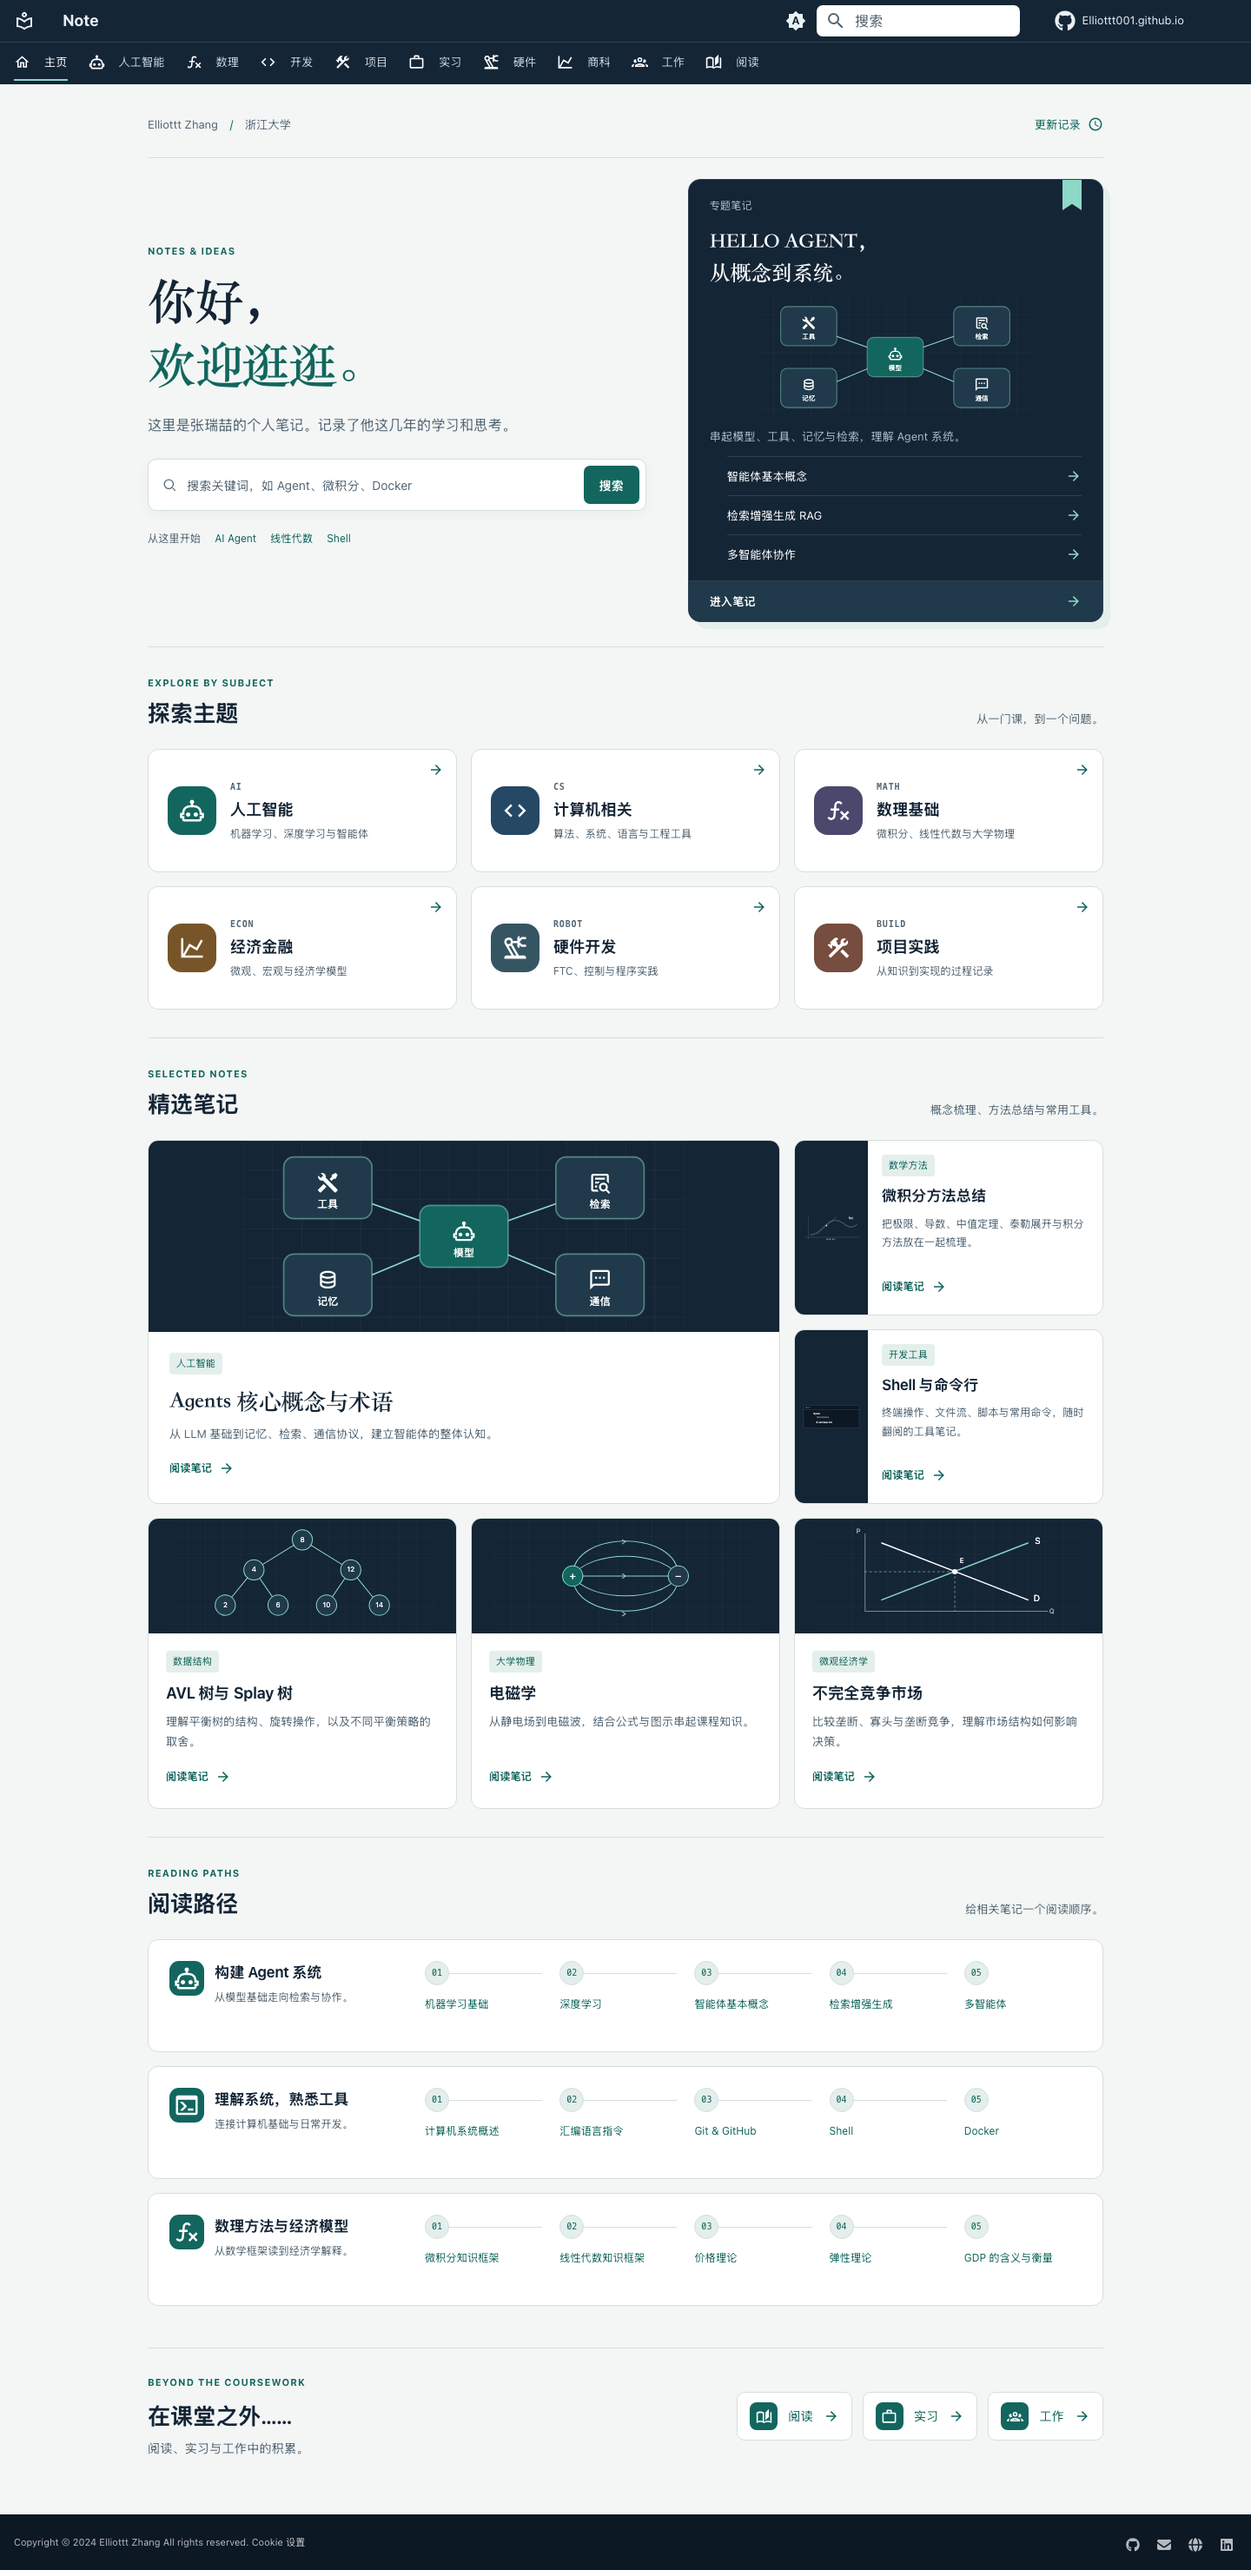
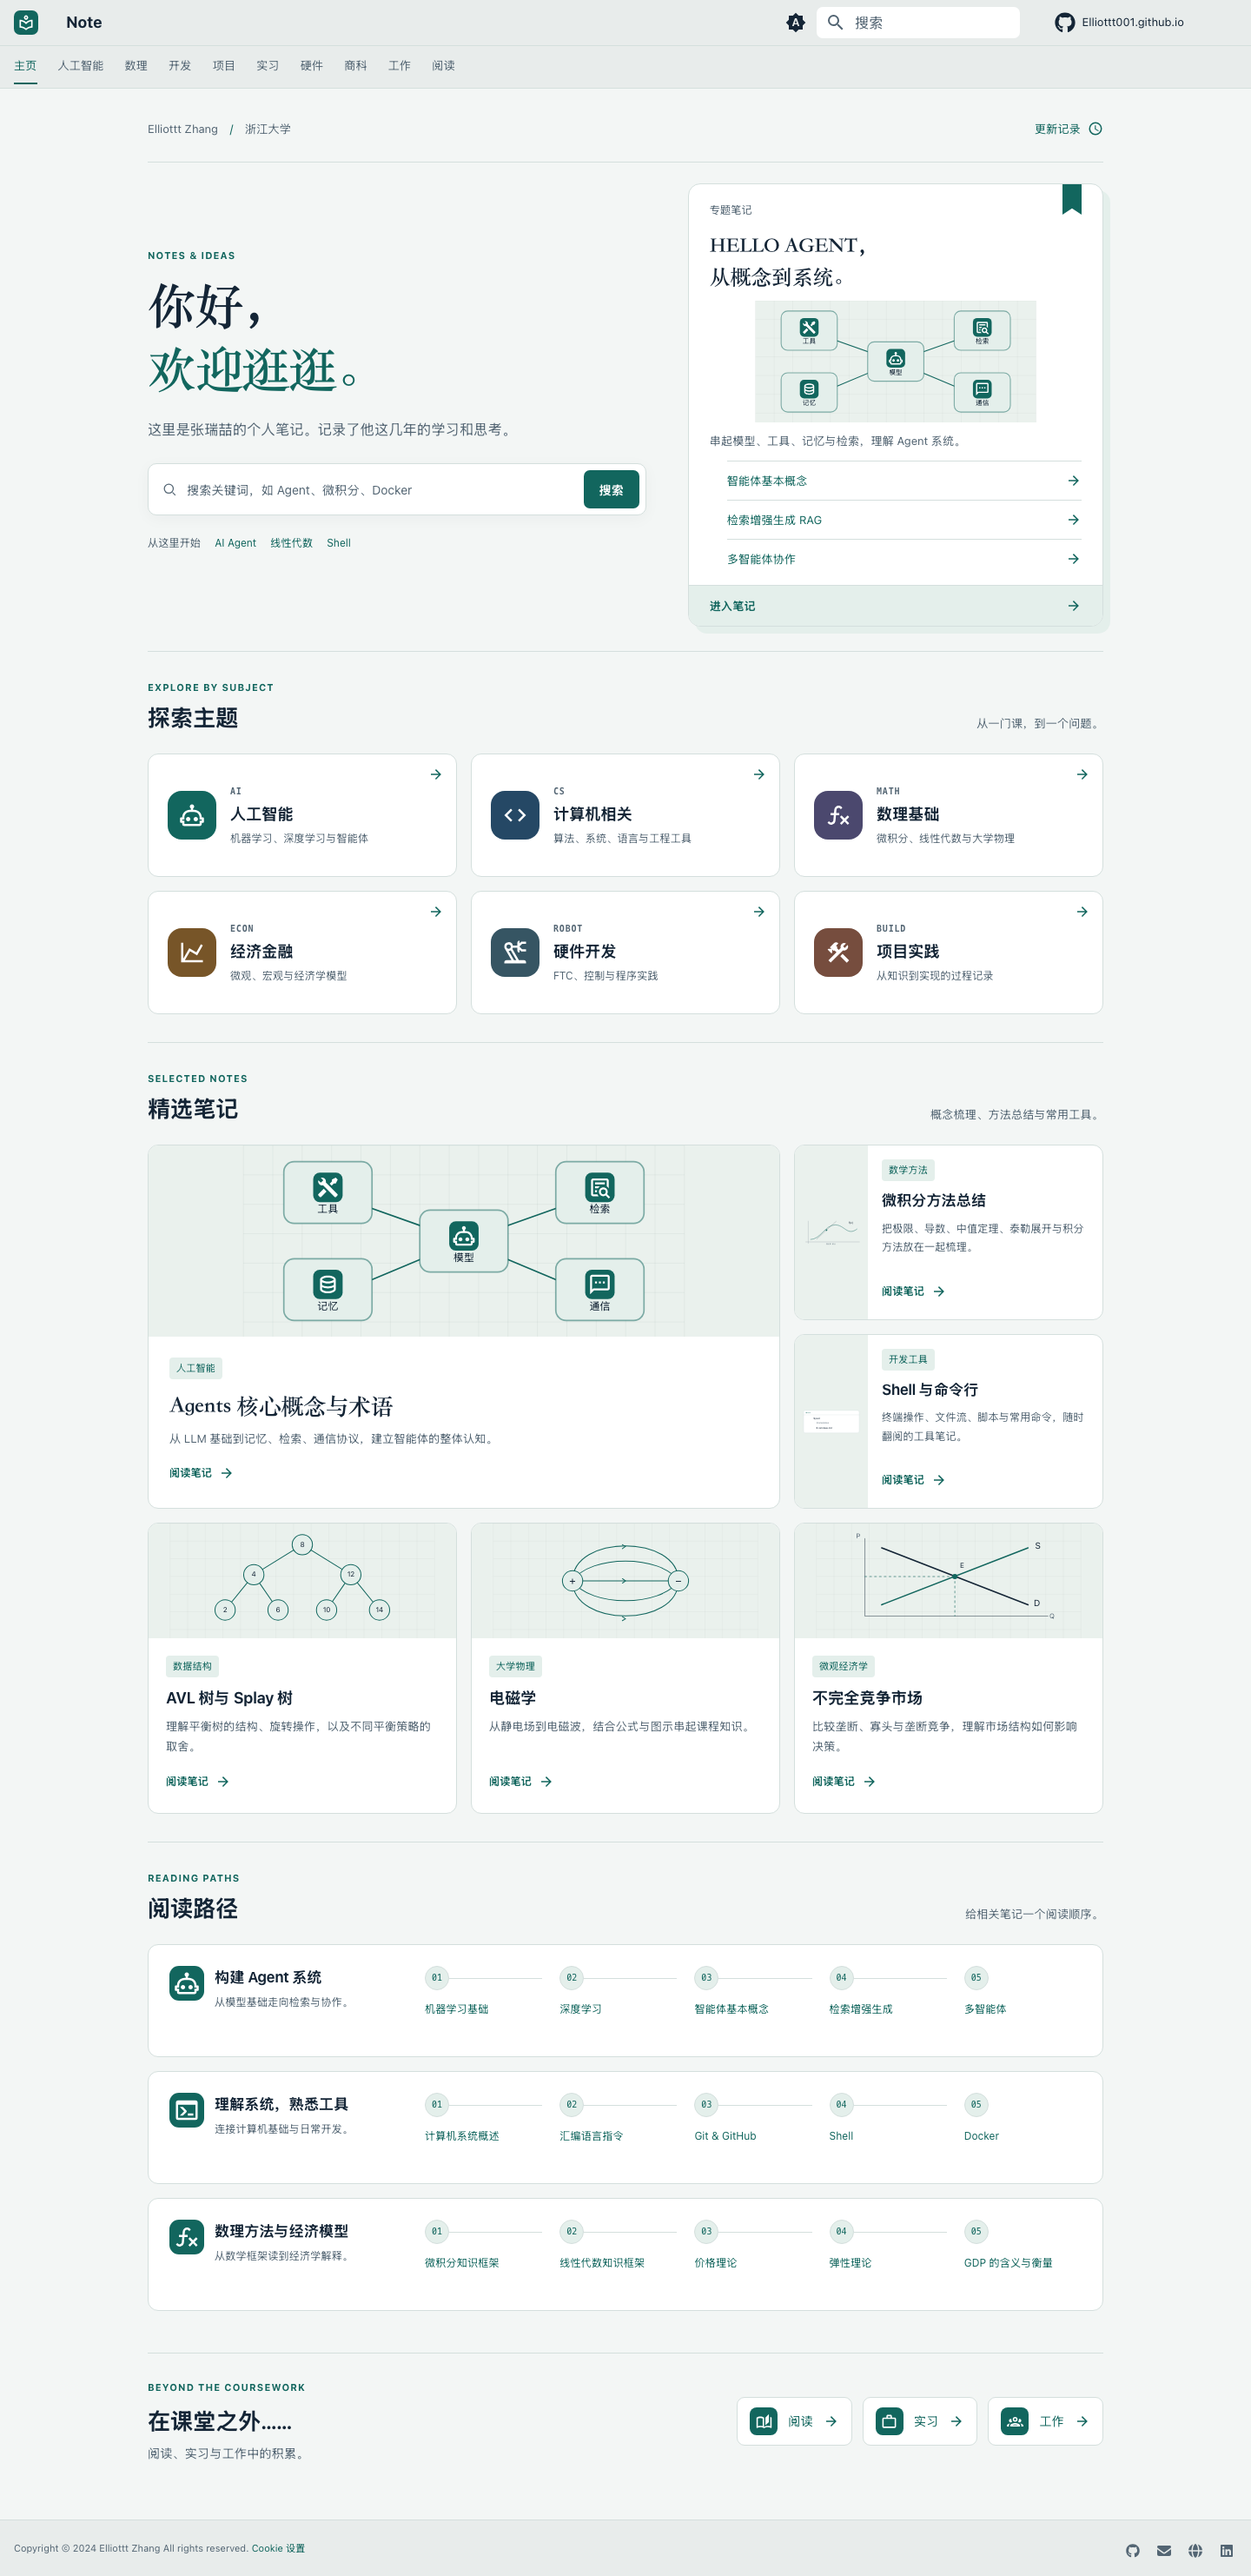
fix: adapt illustrations to themes and simplify navigation

diff --git a/assets/mkdocs/css/home.css b/assets/mkdocs/css/home.css
@@ -29,18 +29,18 @@ body:has(.note-home) .md-content__inner::before { display: none; }
 .nh-arrow { display: inline-flex; align-items: center; flex: 0 0 18px; width: 18px; height: 18px; }
 .nh-arrow svg { width: 100%; height: 100%; fill: currentColor; }
 
-.nh-notebook { position: relative; overflow: hidden; padding: 20px 24px 0; border: 1px solid #2b4150; border-radius: 14px; background: #142536; color: #fff; box-shadow: 8px 8px 0 var(--nh-tint); }
-.nh-notebook__top { display: flex; align-items: center; justify-content: space-between; margin-bottom: 14px; color: #a7b9c5; font-size: 12px; }
-.nh-bookmark { position: absolute; top: -1px; right: 24px; width: 22px; height: 36px; background: #8ed8c7; clip-path: polygon(0 0, 100% 0, 100% 100%, 50% 80%, 0 100%); }
-.md-typeset .nh-notebook h2 { margin: 0; color: #fff; font-family: var(--ns-display); font-size: 24px; font-weight: 700; line-height: 1.45; }
-.md-typeset .nh-notebook__map { display: block; width: 100%; height: 140px; object-fit: contain; margin: 10px 0; border-radius: 0; }
-.nh-notebook > p { margin: 0 0 12px; color: #a7b9c5; font-size: 13px; }
+.nh-notebook { position: relative; overflow: hidden; padding: 20px 24px 0; border: 1px solid var(--nh-line); border-radius: 14px; background: var(--nh-panel); color: var(--nh-ink); box-shadow: 8px 8px 0 var(--nh-tint); }
+.nh-notebook__top { display: flex; align-items: center; justify-content: space-between; margin-bottom: 14px; color: var(--nh-muted); font-size: 12px; }
+.nh-bookmark { position: absolute; top: -1px; right: 24px; width: 22px; height: 36px; background: var(--nh-accent); clip-path: polygon(0 0, 100% 0, 100% 100%, 50% 80%, 0 100%); }
+.md-typeset .nh-notebook h2 { margin: 0; color: var(--nh-ink); font-family: var(--ns-display); font-size: 24px; font-weight: 700; line-height: 1.45; }
+.md-typeset .nh-notebook__map { display: block; width: 100%; height: 140px; margin: 10px 0; border-radius: 0; }
+.nh-notebook > p { margin: 0 0 12px; color: var(--nh-muted); font-size: 13px; }
 .md-typeset .nh-notebook ul { margin: 0; padding: 0; list-style: none; }
-.md-typeset .nh-notebook li { margin: 0; border-top: 1px solid #2b4150; }
+.md-typeset .nh-notebook li { margin: 0; border-top: 1px solid var(--nh-line); }
 .nh-notebook li a { display: flex; align-items: center; justify-content: space-between; gap: 12px; min-height: 44px; padding: 8px 0; font-size: 13px; }
-.nh-notebook__footer { display: flex; align-items: center; justify-content: space-between; gap: 12px; margin: 8px -24px 0; padding: 12px 24px; border-top: 1px solid #2b4150; background: #203a4b; font-size: 13px; font-weight: 600; }
-.md-typeset .note-home .nh-notebook a { color: #fff; }
-.nh-notebook .nh-arrow { color: #8ed8c7; }
+.nh-notebook__footer { display: flex; align-items: center; justify-content: space-between; gap: 12px; margin: 8px -24px 0; padding: 12px 24px; border-top: 1px solid var(--nh-line); background: var(--nh-tint); font-size: 13px; font-weight: 600; }
+.md-typeset .note-home .nh-notebook a { color: var(--nh-accent); }
+.nh-notebook .nh-arrow { color: var(--nh-accent); }
 
 .nh-section { padding: 32px 0; border-top: 1px solid var(--nh-line); }
 .nh-section__head { display: flex; align-items: end; justify-content: space-between; gap: 20px; margin-bottom: 24px; }
@@ -62,19 +62,19 @@ body:has(.note-home) .md-content__inner::before { display: none; }
 
 .nh-notes { display: grid; grid-template-columns: repeat(6, minmax(0, 1fr)); gap: 16px; }
 .nh-note { grid-column: span 2; display: flex; flex-direction: column; min-width: 0; overflow: hidden; border: 1px solid var(--nh-line); border-radius: 12px; background: var(--nh-panel); transition: border-color 160ms ease, transform 160ms ease; }
-.nh-note__art { display: block; overflow: hidden; background: #142536; }
-.md-typeset .nh-note__art img { display: block; width: 100%; height: 132px; object-fit: contain; border-radius: 0; }
+.nh-note__art { display: block; overflow: hidden; background: var(--nh-book); }
+.md-typeset .nh-note__art .nh-illustration { display: block; width: 100%; height: 132px; border-radius: 0; }
 .nh-note__body { display: flex; flex: 1; flex-direction: column; align-items: start; min-width: 0; padding: 20px; }
 .nh-note__tag { display: inline-block; padding: 3px 8px; border-radius: 4px; background: var(--nh-tint); color: var(--nh-accent); font-size: 11px; }
 .md-typeset .nh-note h3 { margin: 10px 0 8px; color: var(--nh-ink); font-size: 18px; font-weight: 650; line-height: 1.5; }
 .nh-note p { margin: 0 0 12px; color: var(--nh-muted); font-size: 13px; line-height: 1.8; }
 .nh-note__link { display: flex; align-items: center; gap: 8px; min-height: 32px; margin-top: auto; color: var(--nh-accent); font-size: 12px; font-weight: 600; }
 .nh-note--lead { grid-column: span 4; grid-row: span 2; }
-.md-typeset .nh-note--lead .nh-note__art img { height: 220px; }
+.md-typeset .nh-note--lead .nh-note__art .nh-illustration { height: 220px; }
 .nh-note--lead .nh-note__body { padding: 24px; }
 .md-typeset .nh-note--lead h3 { font-family: var(--ns-display); font-size: 26px; }
 .nh-note--compact { display: grid; grid-template-columns: 84px minmax(0, 1fr); }
-.md-typeset .nh-note--compact .nh-note__art img { width: 100%; height: 100%; object-fit: contain; object-position: center; }
+.md-typeset .nh-note--compact .nh-note__art .nh-illustration { width: 100%; height: 100%; }
 .nh-note--compact .nh-note__body { padding: 16px; }
 .md-typeset .nh-note--compact h3 { font-size: 17px; }
 .nh-note--compact p { font-size: 12px; }
@@ -134,7 +134,7 @@ body:has(.note-home) .md-content__inner::before { display: none; }
   .nh-note, .nh-note--lead { grid-column: auto; grid-row: auto; }
   .nh-note--compact { display: grid; grid-template-columns: 84px minmax(0, 1fr); }
   .nh-note--compact .nh-note__art { display: block; }
-  .md-typeset .nh-note--lead .nh-note__art img { height: auto; }
+  .md-typeset .nh-note--lead .nh-note__art .nh-illustration { height: auto; }
   .nh-note--lead .nh-note__body { padding: 20px; }
   .md-typeset .nh-note--lead h3 { font-size: 23px; }
   .nh-path { padding: 20px; }
@@ -155,3 +155,21 @@ body:has(.note-home) .md-content__inner::before { display: none; }
   .nh-topic__icon { grid-row: 1 / 3; margin: 0; }
 }
 @media (prefers-reduced-motion: reduce) { .nh-topic, .nh-note { transition: none; transform: none !important; } }
+
+/* The homepage frame uses the shared navigation palette. */
+body:has(.note-home) {
+  --md-primary-bg-color: var(--nh-ink);
+  --md-primary-bg-color--light: var(--nh-muted);
+  --md-footer-fg-color: var(--nh-ink);
+  --md-footer-fg-color--light: var(--nh-muted);
+  --md-footer-fg-color--lighter: var(--nh-muted);
+}
+body:has(.note-home) :is(.md-header, .md-tabs) { background: var(--nh-chrome); color: var(--nh-ink); border-bottom: 1px solid var(--nh-line); }
+body:has(.note-home) .md-tabs__link { color: var(--nh-muted); }
+body:has(.note-home) .md-tabs__item--active .md-tabs__link { color: var(--nh-accent); box-shadow: 0 -2px var(--nh-accent) inset; }
+body:has(.note-home) .md-header .md-logo svg { box-sizing: border-box; width: 28px; height: 28px; padding: 4px; border-radius: 7px; background: #12665e; fill: #fff; }
+body:has(.note-home) .md-footer { background: var(--nh-chrome); }
+body:has(.note-home) .md-footer-meta { border-top: 1px solid var(--nh-line); background: var(--nh-chrome); }
+body:has(.note-home) .md-copyright { color: var(--nh-muted); }
+body:has(.note-home) .md-copyright a { color: var(--nh-accent); }
+body:has(.note-home) .md-social__link { color: var(--nh-ink); }

diff --git a/assets/mkdocs/css/custom.css b/assets/mkdocs/css/custom.css
@@ -1,6 +1,7 @@
 /* One palette for the homepage, navigation and every notebook page. */
 :root {
   --nh-bg: #f3f6f5;
+  --nh-chrome: #e8eceb;
   --nh-panel: #ffffff;
   --nh-ink: #142536;
   --nh-muted: #536573;
@@ -17,6 +18,7 @@
 
 [data-md-color-scheme="slate"] {
   --nh-bg: #0c1824;
+  --nh-chrome: #142536;
   --nh-panel: #122332;
   --nh-ink: #e8f0f4;
   --nh-muted: #a7b9c5;
@@ -446,13 +448,26 @@ body[data-md-color-scheme] .md-typeset summary::after { color: #fff; background-
 .ns-page-icon { width: 32px; height: 32px; border-radius: 9px; }
 .ns-page-icon svg { width: 20px; height: 20px; }
 .md-tabs__link { display: inline-flex; align-items: center; gap: 8px; min-height: 44px; margin-top: 0; opacity: 1; color: #c6d3dc; }
-.md-tabs__link svg { flex: 0 0 19px; width: 19px; height: 19px; fill: #fff; }
 .md-tabs__item--active .md-tabs__link { color: #fff; box-shadow: 0 -2px #8ed8c7 inset; }
-.md-nav--primary .md-nav__link > svg { flex: 0 0 28px; width: 28px; height: 28px; padding: 5px; border-radius: 7px; background: #203a4b; fill: #fff; }
-.md-nav--primary .md-nav__link:has(> svg) { align-items: center; gap: 8px; }
 .md-typeset :is(.admonition, details) { --ns-callout: #216076; }
 .md-typeset :is(.admonition, details):is(.tip, .hint, .important, .success, .check, .done) { --ns-callout: #12665e; }
 .md-typeset :is(.admonition, details):is(.warning, .caution, .attention, .question, .help, .faq) { --ns-callout: #865b12; }
 .md-typeset :is(.admonition, details):is(.danger, .error, .failure, .fail, .missing, .bug) { --ns-callout: #a13b46; }
 .md-typeset :is(.admonition, details):is(.example, .quote, .cite) { --ns-callout: #4b486e; }
 body[data-md-color-scheme] .md-typeset :is(.admonition, details) { border-color: color-mix(in srgb, var(--ns-callout) 45%, var(--nh-line)); }
+
+/* A slightly gray frame around light-mode content, across every page. */
+body[data-md-color-scheme="default"] {
+  --md-primary-bg-color: var(--nh-ink);
+  --md-primary-bg-color--light: var(--nh-muted);
+  --md-footer-fg-color: var(--nh-ink);
+  --md-footer-fg-color--light: var(--nh-muted);
+  --md-footer-fg-color--lighter: var(--nh-muted);
+}
+body[data-md-color-scheme="default"] :is(.md-header, .md-tabs, .md-footer, .md-footer-meta) { background: var(--nh-chrome); color: var(--nh-ink); }
+body[data-md-color-scheme="default"] .md-header { border-bottom-color: var(--nh-line); }
+body[data-md-color-scheme="default"] .md-footer-meta { border-top: 1px solid var(--nh-line); }
+body[data-md-color-scheme="default"] .md-tabs__link { color: var(--nh-muted); }
+body[data-md-color-scheme="default"] .md-tabs__item--active .md-tabs__link { color: var(--nh-accent); box-shadow: 0 -2px var(--nh-accent) inset; }
+body[data-md-color-scheme="default"] .md-copyright { color: var(--nh-muted); }
+body[data-md-color-scheme="default"] .md-copyright a { color: var(--nh-accent); }

diff --git a/overrides/main.html b/overrides/main.html
@@ -3,7 +3,7 @@
 {% block content %}
   {% if page and page.file.src_uri != "index.md" %}
     <div class="ns-page-label">
-      {% if page.meta.icon %}<span class="nh-icon ns-page-icon" aria-hidden="true">{% include ".icons/" ~ page.meta.icon ~ ".svg" %}</span>{% endif %}
+      {% if page.meta.cover_icon %}<span class="nh-icon ns-page-icon" aria-hidden="true">{% include ".icons/" ~ page.meta.cover_icon ~ ".svg" %}</span>{% endif %}
       <a href="{{ '' | url }}">Elliottt Zhang 的笔记</a>
       {% if page.parent %}
         <span aria-hidden="true">/</span><span>{{ page.parent.title }}</span>

diff --git a/hooks/copy_assets.py b/hooks/copy_assets.py
@@ -7,6 +7,8 @@ The docs/assets/ directory is gitignored — it's a build artifact.
 """
 
 import os
+from pathlib import Path
+import re
 import shutil
 
 
@@ -34,3 +36,24 @@ def on_serve(server, config, **kwargs):
     assets_dir = os.path.join(config_dir, "assets")
     if os.path.isdir(assets_dir):
         server.watch(assets_dir)
+
+
+def on_page_content(html, page, config, **kwargs):
+    """Inline homepage SVGs so manual theme changes reach their palette."""
+    if page.file.src_uri != "index.md":
+        return html
+
+    def illustration(match):
+        svg = (Path(config.docs_dir) / match[1]).read_text(encoding="utf-8")
+        css_class = re.search(r'\bclass="([^"]+)"', match[0])
+        classes = "nh-illustration" + (" " + css_class[1] if css_class else "")
+        # Every occurrence needs its own accessible title, including reused art.
+        title_id = f"nh-art-{match.start()}"
+        svg = svg.replace('id="title"', f'id="{title_id}"')
+        svg = svg.replace('aria-labelledby="title"', f'aria-labelledby="{title_id}"')
+        return svg.replace("<svg ", f'<svg class="{classes}" ', 1)
+
+    return re.sub(
+        r'<img\b[^>]*\bsrc="(assets/mkdocs/images/notes/[a-z]+\.svg)"[^>]*>',
+        illustration, html,
+    )

diff --git a/archive/design/2026-11-04-home-theme-fix.md b/archive/design/2026-11-04-home-theme-fix.md
@@ -1,0 +1,22 @@
+# 首页主题切换修复
+
+实际点击主题按钮复现：页面已经进入 default 浅色模式，但专题卡、精选笔记配图、导航和页脚仍使用固定深色。
+
+修复范围：
+
+- 专题卡、底栏、配图区域和首页导航 / 页脚使用现有主题变量。
+- 六个 SVG 图形的背景、线条和文字使用主题变量；构建时将首页配图内联，让手动主题选择即时作用于图形。
+- 白色 SVG 图标保留，使用小面积深色底保证对比。
+- 页脚文字与社交链接使用对应主题的前景颜色。
+
+验证：
+
+- 在 1440、1024、768、390px 下实际点击浅色、深色、浅色，共 12 个切换状态通过。
+- 在系统深色时手动选择浅色并刷新，选择仍被保留。
+- 选择自动模式后，修改系统颜色偏好，页面继续跟随系统。
+- 浏览器检查专题、SVG 背景与文字、导航、页脚、白色主题图标和页面溢出。
+- MkDocs 构建与 SVG XML 校验成功；JavaScript 语法检查成功。
+
+本地回归检查：`node tests/home-theme.cjs`。测试文件遵循仓库原有 Git 忽略规则。
+
+截图：`previews/light-before-theme-fix.png` 为修复前；`previews/desktop.png`、`previews/mobile.png`、`previews/dark.png` 为修复后。

diff --git a/docs/BOOK/index.md b/docs/BOOK/index.md
@@ -1,5 +1,5 @@
 ---
-icon: material/book-open-page-variant-outline
+cover_icon: material/book-open-page-variant-outline
 ---
 
 # 阅读

diff --git a/docs/index.md b/docs/index.md
@@ -1,5 +1,5 @@
 ---
-icon: material/home-outline
+cover_icon: material/home-outline
 title: 首页
 comments: false
 glightbox: false

diff --git a/docs/ROBOTICS/index.md b/docs/ROBOTICS/index.md
@@ -1,5 +1,5 @@
 ---
-icon: material/robot-industrial-outline
+cover_icon: material/robot-industrial-outline
 ---
 
 # 硬件

diff --git a/docs/WORK/index.md b/docs/WORK/index.md
@@ -1,5 +1,5 @@
 ---
-icon: material/account-group-outline
+cover_icon: material/account-group-outline
 ---
 
 # 工作

diff --git a/docs/INTERN/index.md b/docs/INTERN/index.md
@@ -1,5 +1,5 @@
 ---
-icon: material/briefcase-outline
+cover_icon: material/briefcase-outline
 ---
 
 # 实习

diff --git a/docs/AI/index.md b/docs/AI/index.md
@@ -1,5 +1,5 @@
 ---
-icon: material/robot-outline
+cover_icon: material/robot-outline
 ---
 
 # 人工智能

diff --git a/docs/MATH/index.md b/docs/MATH/index.md
@@ -1,5 +1,5 @@
 ---
-icon: material/function-variant
+cover_icon: material/function-variant
 ---
 
 # 数理
